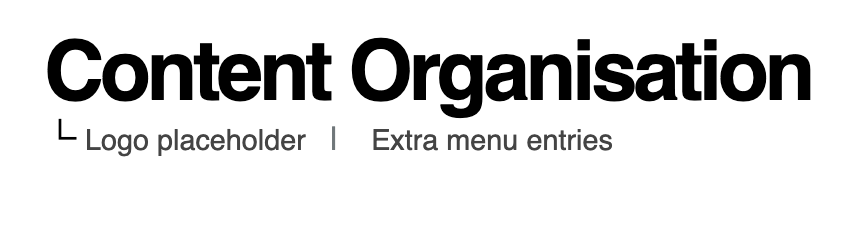
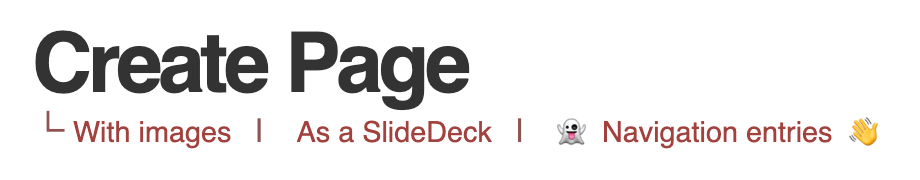
update content

Changed region(s): [[0.0312, 0.1667, 0.9665, 0.8333]]

diff --git a/assets/sass/shortcodes/notice.scss b/assets/sass/shortcodes/notice.scss
@@ -18,7 +18,8 @@ $color_transparent : transparent ;
 	    margin-top: 0px;
 	    box-sizing: border-box;
 	    box-shadow: inset 4px 0 0 black;
-	    background-color: lighten(black,90%)
+	    background-color: lighten(black,90%);
+		font-size: smaller;
 	}
 
 

diff --git a/exampleSite/content/docport-theme/_index.md b/exampleSite/content/docport-theme/_index.md
@@ -6,22 +6,23 @@ weight = 1
 
 [Hugo-theme-docport](https://github.com/vjeantet/hugo-theme-docport) is a theme for Hugo, a fast and modern static website engine. Hugo is often used for blogs.
 
-**This theme is fully designed for documentation.** and a port of the [docDock theme](https://github.com/vjenatet/hugo-theme-docdock) itslef a fork of a great theme : [hugo-theme-learn from matCornic](https://github.com/matcornic/hugo-theme-learn)
+**This theme is fully designed for documentation.** and a port of the [docDock theme](https://github.com/vjenatet/hugo-theme-docdock) which is a fork of [hugo-theme-learn from matCornic](https://github.com/matcornic/hugo-theme-learn)
 
-{{%panel%}}DocPort works with a "page tree structure" to organize content : All contents are pages, which belong to other pages. [read more about this]({{%relref "content-organisation/_index.md"%}}) {{%/panel%}}
+{{%notice%}}DocPort works with a "page tree structure" to organize content : All contents are pages, which belong to other pages. [read more about this]({{%relref "content-organisation/_index.md"%}}).  {{%/notice%}}
 
 ## Main features
-
 
 * [Search Engine]({{%relref "search/_index.md" %}})
 * **Unlimited menu levels**
 * [Placeholders]({{%relref "content-organisation/placeholders/_index.md" %}}) to inject HTML, CSS, JS in theme without modifying it.
-* [Customizable look and feel, colors]({{%relref "content-organisation/customize-style/_index.md" %}})
+* Responsive, [Customizable look and feel, colors]({{%relref "content-organisation/customize-style/_index.md" %}})
 * [RevealJS presentation]({{%relref "page-slide/_index.md"%}}) from markdown (embededed or fullscreen page)
 * [Image resizing, shadow...]({{%relref "create-page/page-images/_index.md" %}})
-* [Mermaid diagram]({{%relref "shortcodes/mermaid/_index.md" %}}) (flowchart, sequence, gantt)
-* [Attachments files]({{%relref "shortcodes/attachments/_index.md" %}}), [Icons]({{%relref "shortcodes/icon/_index.md" %}}), [Buttons]({{%relref "shortcodes/button/_index.md" %}}), [Alerts]({{%relref "shortcodes/alert/_index.md" %}}), [Panels]({{%relref "shortcodes/panel/_index.md" %}}), [Tip/Note/Info/Warning boxes]({{%relref "shortcodes/notice/_index.md" %}}), [Expand]({{%relref "shortcodes/expand/_index.md" %}}), [List child pages]({{%relref "shortcodes/children/_index.md" %}})
-* [Excerpt]({{%relref "shortcodes/excerpt/_index.md"%}}) ! Include segment of content from one page in another
+* A bunch of shortcodes
+	* [Mermaid diagram]({{%relref "shortcodes/mermaid/_index.md" %}}) (flowchart, sequence, gantt)
+	* [Attachments files]({{%relref "shortcodes/attachments/_index.md" %}}), [Icons]({{%relref "shortcodes/icon/_index.md" %}}), [Buttons]({{%relref "shortcodes/button/_index.md" %}}), [Alerts]({{%relref "shortcodes/alert/_index.md" %}}), [Panels]({{%relref "shortcodes/panel/_index.md" %}}), [Tip/Note/Info/Warning boxes]({{%relref "shortcodes/notice/_index.md" %}}), [Expand]({{%relref "shortcodes/expand/_index.md" %}}), [List child pages]({{%relref "shortcodes/children/_index.md" %}})
+	* [Excerpt]({{%relref "shortcodes/excerpt/_index.md"%}}) ! Include segment of content from one page in another
+
 
 ## Contribute to this documentation
 Feel free to update this content, just click the **Edit this page** link displayed on top right of each page, and pullrequest it
@@ -30,4 +31,9 @@ Feel free to update this content, just click the **Edit this page** link display
 
 ## Documentation website
 This current documentation has been statically generated with Hugo with a simple command : `hugo -t docport` -- source code is [available here at GitHub](https://github.com/vjeantet/hugo-theme-docPort)
+
+## Static + content management
+Docport theme seamless works with [Netlify CMS](https://www.netlifycms.org/)
+{{%notice%}}Use Netlify CMS with hugo and this theme for a faster and more flexible web project.{{%/notice%}}
+
 

diff --git a/exampleSite/content/create-page/page-slide/_index.md b/exampleSite/content/create-page/page-slide/_index.md
@@ -5,8 +5,6 @@ date = "2017-04-24T18:36:24+02:00"
 weight = 90
 subpage = true
 
-
-
 hide_header=false
 hide_nav=false
 hide_breadcrumb=false
@@ -15,14 +13,28 @@ hide_footer=false
 
 +++
 
-A basic md content page can be rendered as a reveal.js presentation full screen.
+A basic .md file can be rendered as a reveal.js presentation full screen.
 
-* [{{%icon aspect_ratio%}} click here to view an example]({{%relref "myslide.md"%}})
+{{% notice %}}
+**Page As a SlideDeck** is a page that use the full screen to display its markdown content as a [reveals.js presentation](http://lab.hakim.se/reveal-js/).
+\
+[{{%icon aspect_ratio%}} click here to view an example]({{%relref "myslide.md"%}})
 
-{{%alert info%}}You can, also, **embed presentation in a page** as a small box, using the [revealjs]({{% relref "shortcodes/revealjs/_index.md"%}}) shortcode in your md file.{{%/alert%}}
+{{%/notice%}}
+
+To tell Hugo-theme-docport to consider a page as a slide, just add a `type="slide"`in then frontmatter of your file.
+
+```toml
++++
+type="slide"
++++
+```
 
 
-## Formating
+{{%alert success%}}**Tip :** You can, also, **embed presentation in a page** as a small box, using the [revealjs]({{% relref "shortcodes/revealjs/_index.md"%}}) shortcode in your md file.{{%/alert%}}
+
+
+## Formating your content
 Use your common Markdown syntax you use in Hugo, don't forget, you can put html tags too.
 
 {{%notice info %}} Special syntax (in html comment) is available for adding attributes to Markdown elements. This is useful for fragments, amongst other things.
@@ -31,7 +43,7 @@ Use your common Markdown syntax you use in Hugo, don't forget, you can put html 
 Please read the [{{%icon book%}} doc from hakimel](https://github.com/hakimel/reveal.js/#instructions)
 
 
-## Options
+## Presentation options
 In the frontmatter of your page file, set **type** and **revealOptions** params
 
 Your content will be served as a fullscreen revealjs presentation and revealOptions will be used to ajust its behaviour.

diff --git a/exampleSite/content/getting-start/installation/_index.md b/exampleSite/content/getting-start/installation/_index.md
@@ -27,10 +27,12 @@ Create empty directory, which will be root of your Hugo project. Navigate there 
 ```
 $ hugo new site .
 ```
-AFTER that, initialize this as git directory where to track further changes
+After that, initialize this as git directory where to track further changes
 ```
 $ git init
 ```
+
+### Install DocPort
 
 Next, there are at least three ways to install DocPort (first recommended):
 
@@ -40,7 +42,7 @@ Next, there are at least three ways to install DocPort (first recommended):
 
 Navigate to your themes folder in your Hugo site and use perform one of following scenarios.
 
-### 1. Install DocPort as git submodule
+#### 1. Install DocPort as git submodule
 
 DocPort will be added like a dependency repo to original project. When using CI tools like Netlify, Jenkins etc., submodule method is required, or you will get `theme not found` issues. Same applies when building site on remote server trough SSH.
 
@@ -62,7 +64,7 @@ Now you are ready to add content and customize looks. Do not change any file ins
 
 If you want to freeze changes to DocPort theme itself and use still submodules, fork private copy of DocPort and use that as submodule. When you are ready to update theme, just pull changes from origin to your private fork.
 
-### 2. Install DocPort simply as git clone
+#### 2. Install DocPort simply as git clone
 
 This method results that files are checked out locally, but won't be visible from parent git repo. Probably you will build site locally with `hugo` command and use result from `public/` on your own.
 
@@ -71,7 +73,7 @@ $ git clone https://github.com/vjeantet/hugo-theme-docport.git themes/docport
 ```
 
 
-### 3. Install DocPort from ZIP
+#### 3. Install DocPort from ZIP
 
 All files from theme will be tracked inside parent repo, to update it, have to override files in theme. [{{%icon cloud_download%}} download zip](https://github.com/vjeantet/hugo-theme-docport/archive/master.zip) and extract inside `themes/`.
 

diff --git a/exampleSite/content/create-page/_index.md b/exampleSite/content/create-page/_index.md
@@ -18,9 +18,9 @@ tags:
 ---
 
 
-Hugo-theme-docport defines two types of pages. _Default_ and _Slide_.
+Hugo-theme-docport uses two types of pages. _Default_ and [_Slide_]({{%relref "create-page/page-slide/_index.md"%}}).
 
-## Page layout
+## Page params
 Each page may define a Front Matter in yaml, toml or json.
 
 Hugo-theme-docport uses the following parameters on top of the existing ones :
@@ -28,16 +28,20 @@ Hugo-theme-docport uses the following parameters on top of the existing ones :
 ```toml
 +++
 title="Create Page"
-layout = "full"
-# - <empty> will show left navigation, table of content, breadcrumb 
-# - "simple" - will hide right bar and breadcrumb 
-# - "full" will hide left nav, right nav and breadcrumb
-# - "raw" - only the page content will display (usefull for homepage)
-#
-# other keys exists to control how to render this page in navigations (see "Navigation Appearance")
-#
+
+subpage = false # When a page is a subpage, it will be displayed bellow the parent page title, and not in the left menu
+
+
+# Ajust layout for your page
+hide_header=false # set true to hide site header
+hide_nav=false # set true to hide the left navigation menu
+hide_breadcrumb=false # set true to hide the breadcrumb
+hide_toc=false # set true to hide the right menu (table of contents)
+hide_footer=false #set true to hide the website footer
 +++
 ```
+
+
 
 ## Ordering
 
@@ -53,16 +57,7 @@ weight = 10
 
 [{{%icon play_circle_filled%}}Read more on content organization]({{%relref "content-organisation/_index.md"%}})
 
-## Page as a slidedeck
-* **Slide** is a page that use the full screen to display its markdown content as a [reveals.js presentation](http://lab.hakim.se/reveal-js/).
 
-To tell Hugo-theme-docport to consider a page as a slide, just add a `type="slide"`in then frontmatter of your file. [{{%icon play_circle_filled%}}read more on page as slide]({{%relref "page-slide.md"%}})
-
-```toml
-+++
-type="slide"
-+++
-```
 
 
 

diff --git a/exampleSite/content/content-organisation/_index.md b/exampleSite/content/content-organisation/_index.md
@@ -33,14 +33,14 @@ To link pages to each other, place them in a folders hierarchy
 **other.md** files are considered as "subpages"
 {{%/alert%}}
 
-### Subpages ⊷
+## Subpages ⊷
 
 Each other **.md** found in a section folder will be considered "subpages", for example, in the `content-organisation` folder there is 1 _index.md (the one your are currently reading) and 1 more files named "extramenu.md", they appear just under this page's title, look upper.
 
 
 ![agence](subpages.png?height=80px&classes=border,shadow)
 
-### Add header to a menu entry
+## Add header to a menu entry
 
 in the page frontmatter, add a `head` param to insert any HTML code before the menu entry:
 
@@ -53,7 +53,7 @@ example to display a "Hello"
 	+++
 ```
 
-### Order sibling menu/page entries
+## Order sibling menu/page entries
 
 in your frontmatter add `weight` param with a number to order.
 
@@ -63,9 +63,9 @@ in your frontmatter add `weight` param with a number to order.
 	weight = 4
 	+++
 ```
-{{%info%}}add `ordersectionsby = "title"` in your config.toml to order menu entries by title{{%/info%}}
+{{%notice tip%}} you can order pages by title by adding `ordersectionsby = "title"` in your config.toml {{%/notice%}}
 
-### Hide a menu entry
+## Hide a menu entry
 
 in your frontmatter add `hidden=true` param.
 ```toml
@@ -75,7 +75,7 @@ in your frontmatter add `hidden=true` param.
 	+++
 ```
 
-### Unfolded menu entry by default
+## Keep menu entry opened by default
 
 One or more menuentries can be displayed unfolded by default. (like the "Getting start" menu entry  in this website)
 
@@ -89,12 +89,8 @@ example :
 	alwaysopen = true
 ```
 
-### Folder structure and file name
 
-Content organization **is** your `content` folder structure.
-
-
-### Homepage
+## Homepage
 
 Find out how to [customize homepage]({{%relref "create-page/set-your-homepage/_index.md"%}}) 
 

diff --git a/exampleSite/content/content-organisation/customize-style/_index.md b/exampleSite/content/content-organisation/customize-style/_index.md
@@ -8,7 +8,7 @@ You can change the style and behavior of the theme without touching its source c
 * inject your own html, css or js into the page
 * overide existing css or js with your own files
 
-{{%notice note %}}
+{{%notice warning %}}
 No needs to copy the entire theme to customize some parts 
 Bellow are solutions to avoid copying the entire theme into your own codebase.
 {{%/notice%}}
@@ -24,7 +24,7 @@ Create a file as `layouts/partials/head.html`
 		└──	head.html
 ```
 
-write your own content like (an example from @nzbart):
+write your own content like :
 ```html
 <link rel="stylesheet" href="/css/custom.css">
 <script src="/js/custom.js"></script>
@@ -48,9 +48,9 @@ $(tweakPage)
 
 now feel free to add the JS, CSS code you want :)
 
-## Add custom HTML before and after key elements of this theme :
+## Add custom HTML before and after key elements of this theme
 
-* @see [site placehors]({{%relref "content-organisation/placeholders/_index.md"%}})
+* @see [site placeholders]({{%relref "content-organisation/placeholders/_index.md"%}})
 
 ## Overide existing CSS or JS
 

diff --git a/exampleSite/content/content-organisation/customize-style/colors/_index.md b/exampleSite/content/content-organisation/customize-style/colors/_index.md
@@ -11,18 +11,21 @@ You can choose this main color by editing the `config.toml` file.
 
 This color is mainly used for menu.
 
-{{% alert theme="warning" %}}When omited, a random value is computed on each build {{%/alert%}}
+{{% notice primary %}}When omited, a random value is computed on each build {{%/notice%}}
 ```toml
 	[params]
 	color_main = "#B0B0B0"
 ```
 
 ## 2nd color (optional)
-{{% alert theme="warning" %}}When omited, this color is computed from main color with a saturated version{{%/alert%}}
+{{% notice primary %}}When omited, this color is computed from main color with a saturated version{{%/notice %}}
 
 This color is mainly used for links.
 
 ```toml
 	[params]
-	color_over = "red"
+	color_second = "red"
 ```
+
+## Random colors
+{{%alert success%}}**Random colors** : comment theses two params in your config.toml, you will have random colors on each build... {{%/alert%}}

diff --git a/exampleSite/content/search/_index.md b/exampleSite/content/search/_index.md
@@ -7,10 +7,9 @@ post: "<i class='material-icons' >star_border</i> "
 ---
 {{%excerpt-include filename="getting-start/configuration/_index.md" /%}}
 
-Docdock theme uses the last improvement available in hugo version 20+ to generate a json index file ready to be consumed by lunr.js javascript search engine.
+Docport theme uses the last improvement available in hugo version 20+ to generate a json index file ready to be consumed by lunr.js javascript search engine.
 
 {{%note%}}hugo generate lunrjs index.json at the root of `public` folder if the site only has one language or within each language subfolder. <br/>When you build the site with `hugo server`, hugo generates it internally and of course it don't show up in the filesystem{{%/note%}}
 
 
 
-![](obscuripes13g.jpg)

diff --git a/exampleSite/content/create-page/set-your-homepage/_index.md b/exampleSite/content/create-page/set-your-homepage/_index.md
@@ -8,11 +8,10 @@ title="Create homepage"
 
 ## Create a dedicated homepage
 To tell Hugo-theme-docport to consider a page as homepage's content, just create a content file named `_index.md` in `content` root folder.
-* use the `layout` key in frontmatter to control what to show/hide for this page
+* use `hide_header`,`hide_nav`,`hide_breadcrumb`,`hide_toc`,`hide_footer` params in frontmatter to control what to show/hide for this page
 
-## Get rid of header, footer and navigations for Homepage
-with `layout=raw` in frontmatter, your content will render without any navigation, menu, header, footer.
-
+## Use plain HTML for your homepage
+set a `layout=raw` param in frontmatter, your content will render without any navigation, menu, header, footer.
 
 
 Example

diff --git a/exampleSite/content/create-page/control-page-menu/_index.md b/exampleSite/content/create-page/control-page-menu/_index.md
@@ -1,8 +1,10 @@
 +++
-title="Navigation appearance"
+title="Navigation entries"
 pre = "👻&nbsp;&nbsp;"
 post = "&nbsp;&nbsp;👋"
 subpage = true
+hidden = false
+weight = 300
 +++
 
 Each page is displayed on navigation bars
@@ -25,11 +27,10 @@ pre = "👻"
 post = "👋"
 
 # LEFT MENU ONLY (Sections)
-# Show a "MY SECTION" text before menu entry
-# as an exemple, on the Create Page a head="<hr/>" is set
-head = "MY SECTION"
+# as an exemple, on the Getting started Page a head="<hr/>" is set
+head = "<hr/>"
 
-# Menu opened by default
+# Menu opened by default (like the Getting started menu entry)
 alwaysopen = false
 
 +++

diff --git a/exampleSite/content/content-organisation/customize-style/disable/_index.md b/exampleSite/content/content-organisation/customize-style/disable/_index.md
@@ -6,13 +6,13 @@ subpage=true
 You can disable feature in docport by changing some params in `config.toml`
 
 
-## hide Next / Prev Chevrons
+## Hide Next Page Chevrons
 ```toml
 	[params]
 	disableNavChevron = true
 ```
 
-## hide Search box in side menu
+## Hide Search box in side menu
 ```toml
 	[params]
 	disableSearch = true
